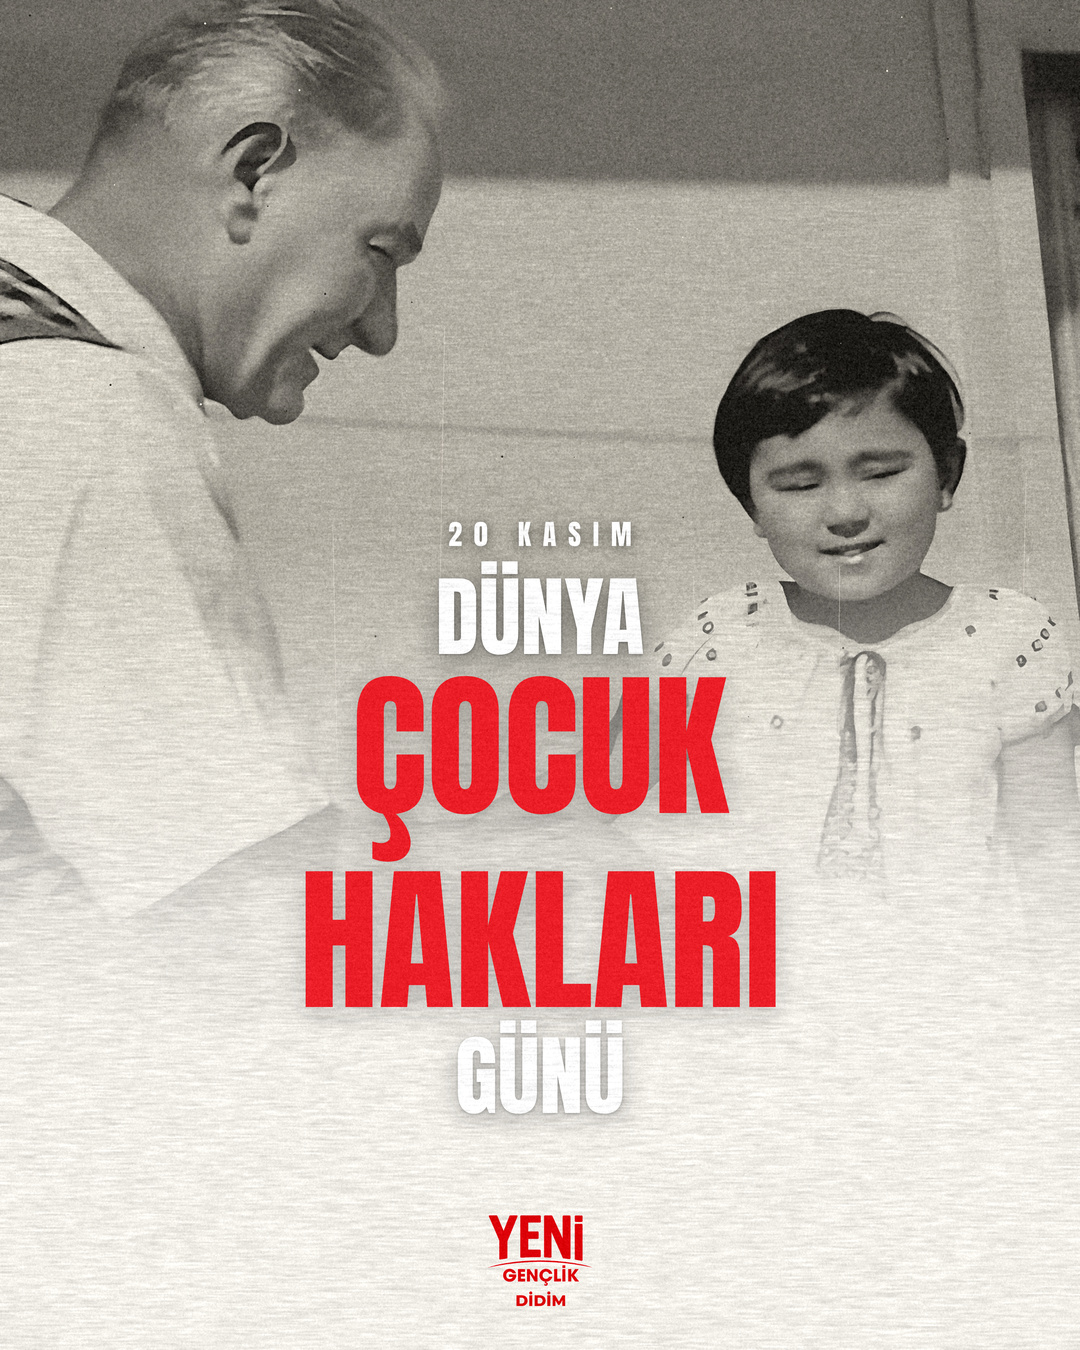
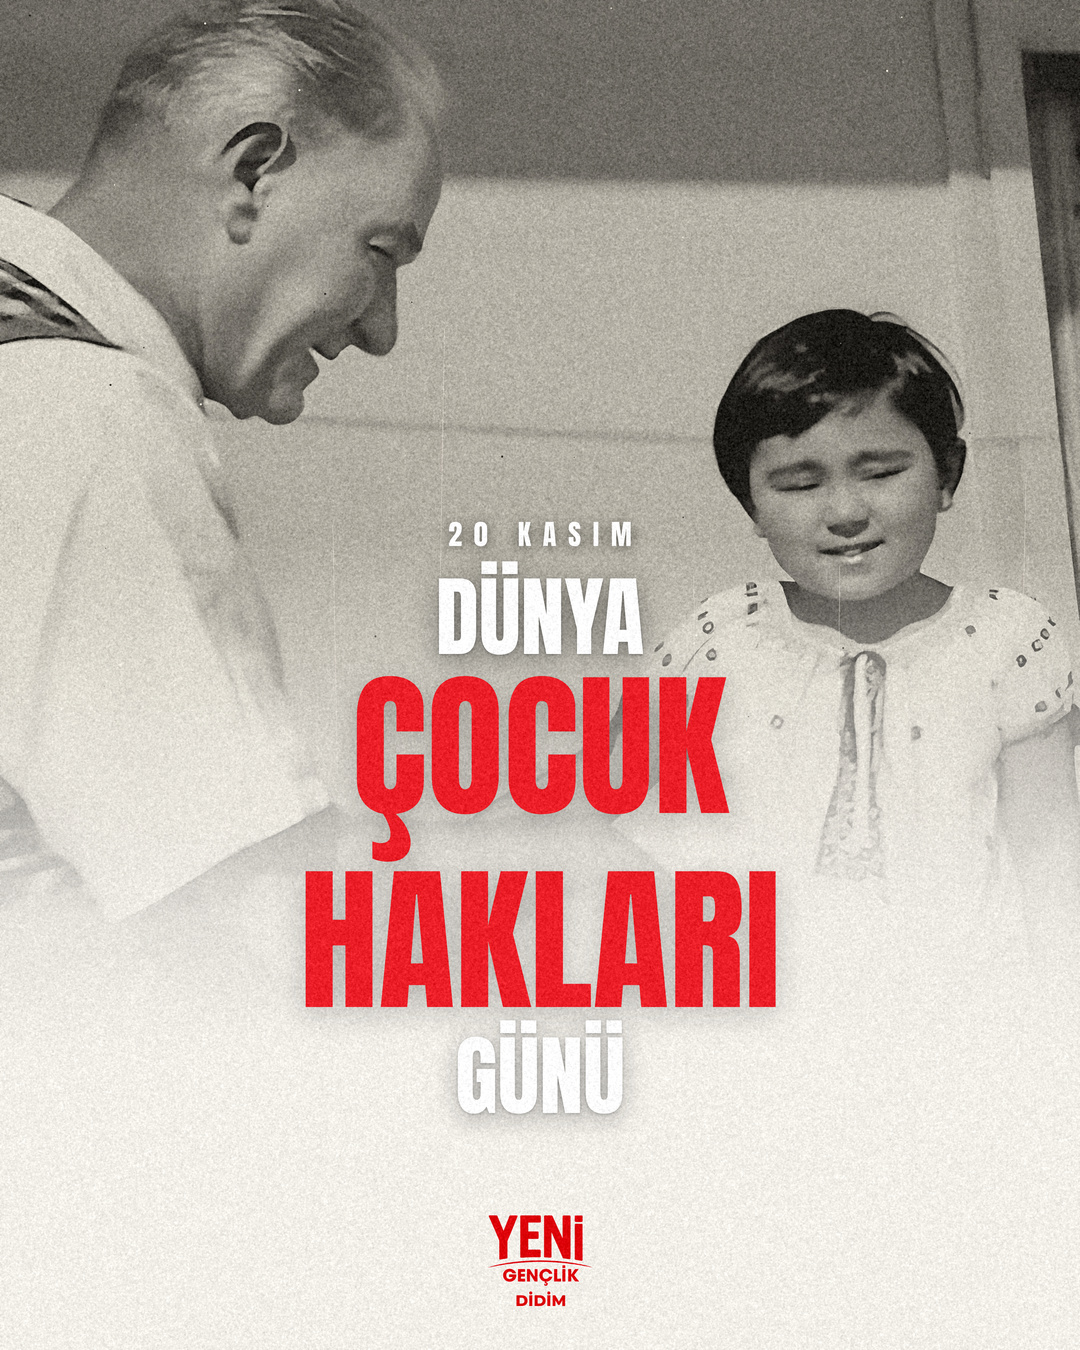
Atatürk 20 Kasım: beğenilen gren versiyonu geri alındı, story eklendi
Claude-Session: https://claude.ai/code/session_01SatttGbgBLoCnk9KGLypWv

diff --git a/tasarim/kisisel/cocuk-haklari-ataturk/story.html b/tasarim/kisisel/cocuk-haklari-ataturk/story.html
@@ -1,0 +1,19 @@
+<!doctype html><html lang="tr"><meta charset="utf-8"><style>
+@font-face{font-family:An;src:url(Anton-latin-ext.woff2);unicode-range:U+0100-0130,U+0132-024F}
+@font-face{font-family:An;src:url(Anton-latin.woff2);unicode-range:U+0000-00FF,U+0131,U+2000-206F}
+html,body{margin:0;width:1080px;height:1920px;overflow:hidden;background:#f3f0ea}
+.f{position:absolute;left:-60px;top:-10px;width:1200px;filter:contrast(1.05)}
+.v{position:absolute;inset:0;background:linear-gradient(180deg,rgba(243,240,234,.0) 0,rgba(243,240,234,0) 920px,rgba(243,240,234,.6) 1060px,rgba(243,240,234,.94) 1200px,#f3f0ea 1330px)}
+.k{position:absolute;left:0;right:0;top:0;height:1450px;background:radial-gradient(130% 70% at 50% 35%,rgba(0,0,0,0) 55%,rgba(0,0,0,.16) 100%)}
+.b{position:absolute;left:0;right:0;top:860px;text-align:center;font-family:An;text-transform:uppercase;line-height:1.12}
+.b .t{font-size:31px;margin-bottom:20px;line-height:1;letter-spacing:.42em;margin-right:-.42em;color:#fff;text-shadow:0 2px 12px rgba(0,0,0,.55)}
+.b .w{font-size:98px;color:#fff;text-shadow:0 6px 28px rgba(0,0,0,.42),0 1px 3px rgba(0,0,0,.25)}
+.b .r{font-size:176px;line-height:1.0;color:#EC1E27;text-shadow:0 8px 30px rgba(0,0,0,.22)}
+.b .g{font-size:98px;margin-top:8px;color:#fff;text-shadow:0 6px 26px rgba(0,0,0,.30),0 1px 3px rgba(0,0,0,.2)}
+.gr{position:absolute;inset:0;background:none;mix-blend-mode:overlay;opacity:0;pointer-events:none}
+.logo{position:absolute;left:50%;transform:translateX(-50%);bottom:190px;height:100px}
+</style><body>
+<img class="f" src="foto-eski.jpg"><div class="k"></div><div class="v"></div>
+<div class="b"><div class="t">20 Kasım</div><div class="w">Dünya</div><div class="r">Çocuk</div><div class="r" style="margin-top:40px">Hakları</div><div class="g">Günü</div></div>
+<div class="gr"></div><img class="logo" src="genclik-kirmizi.png">
+</body></html>
